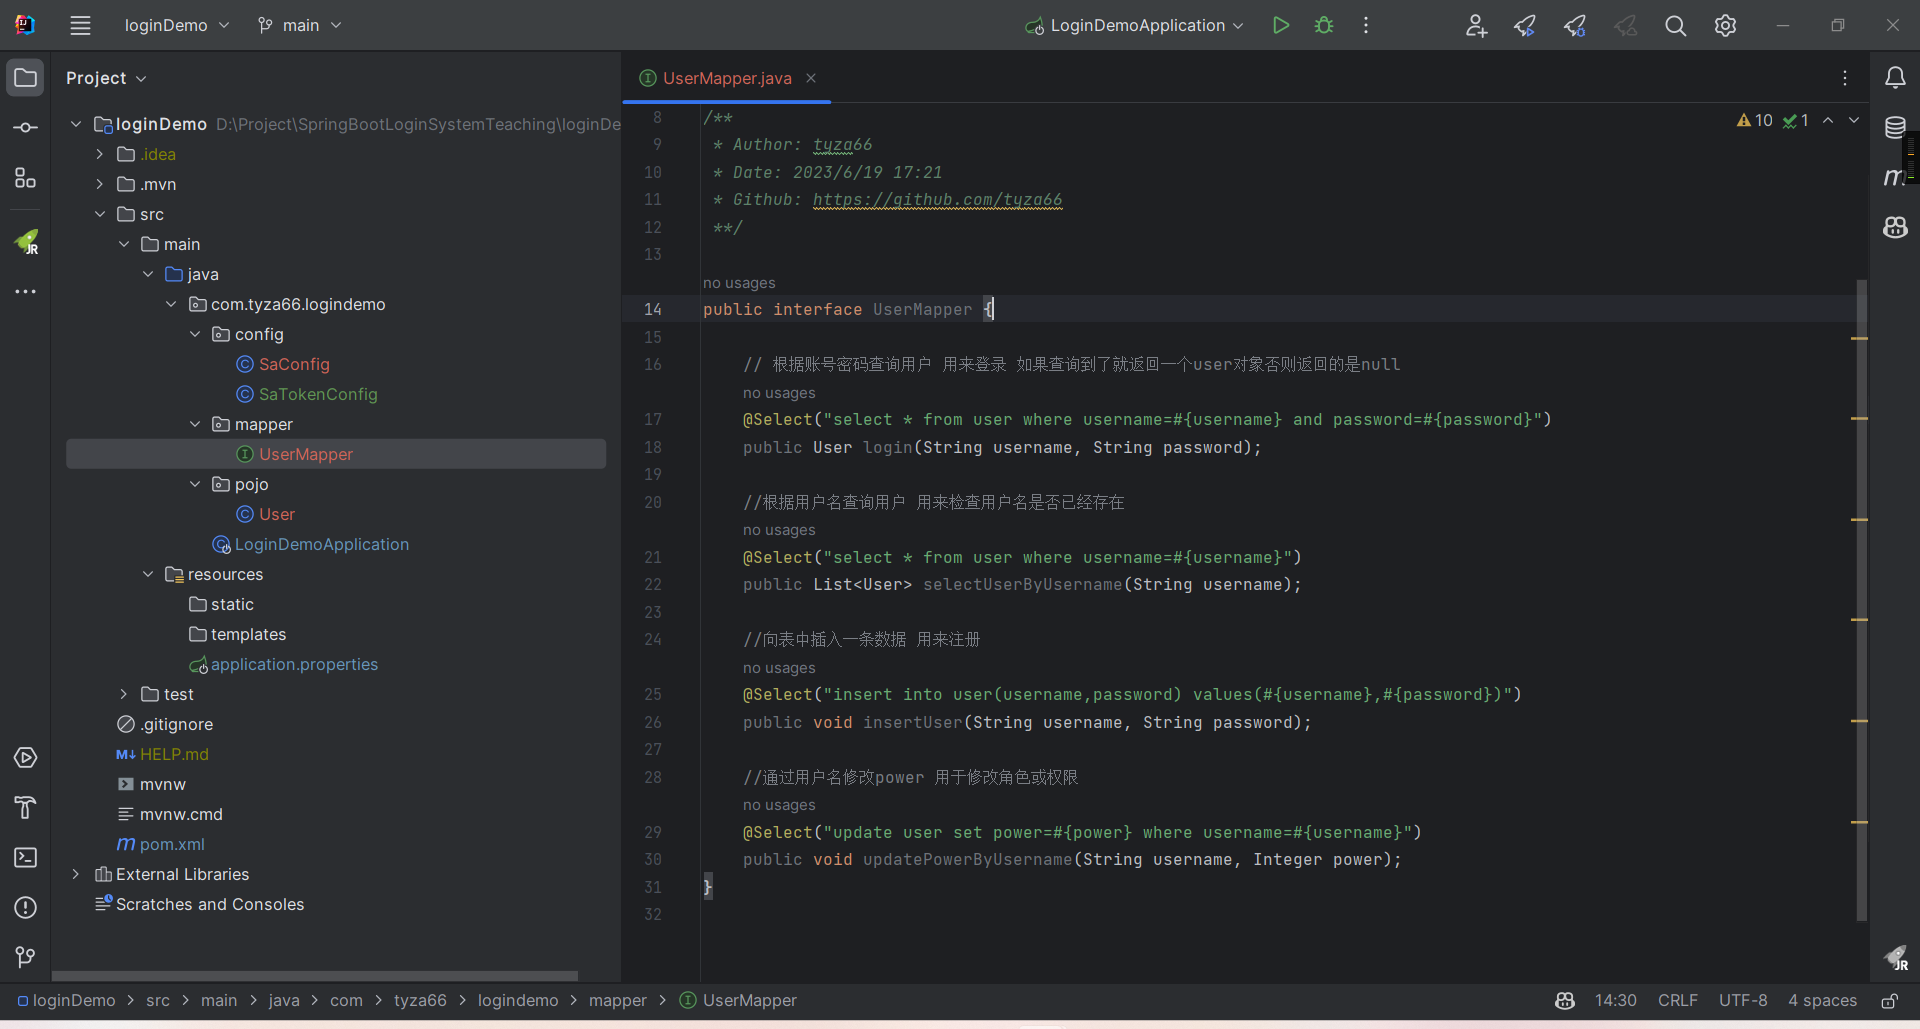
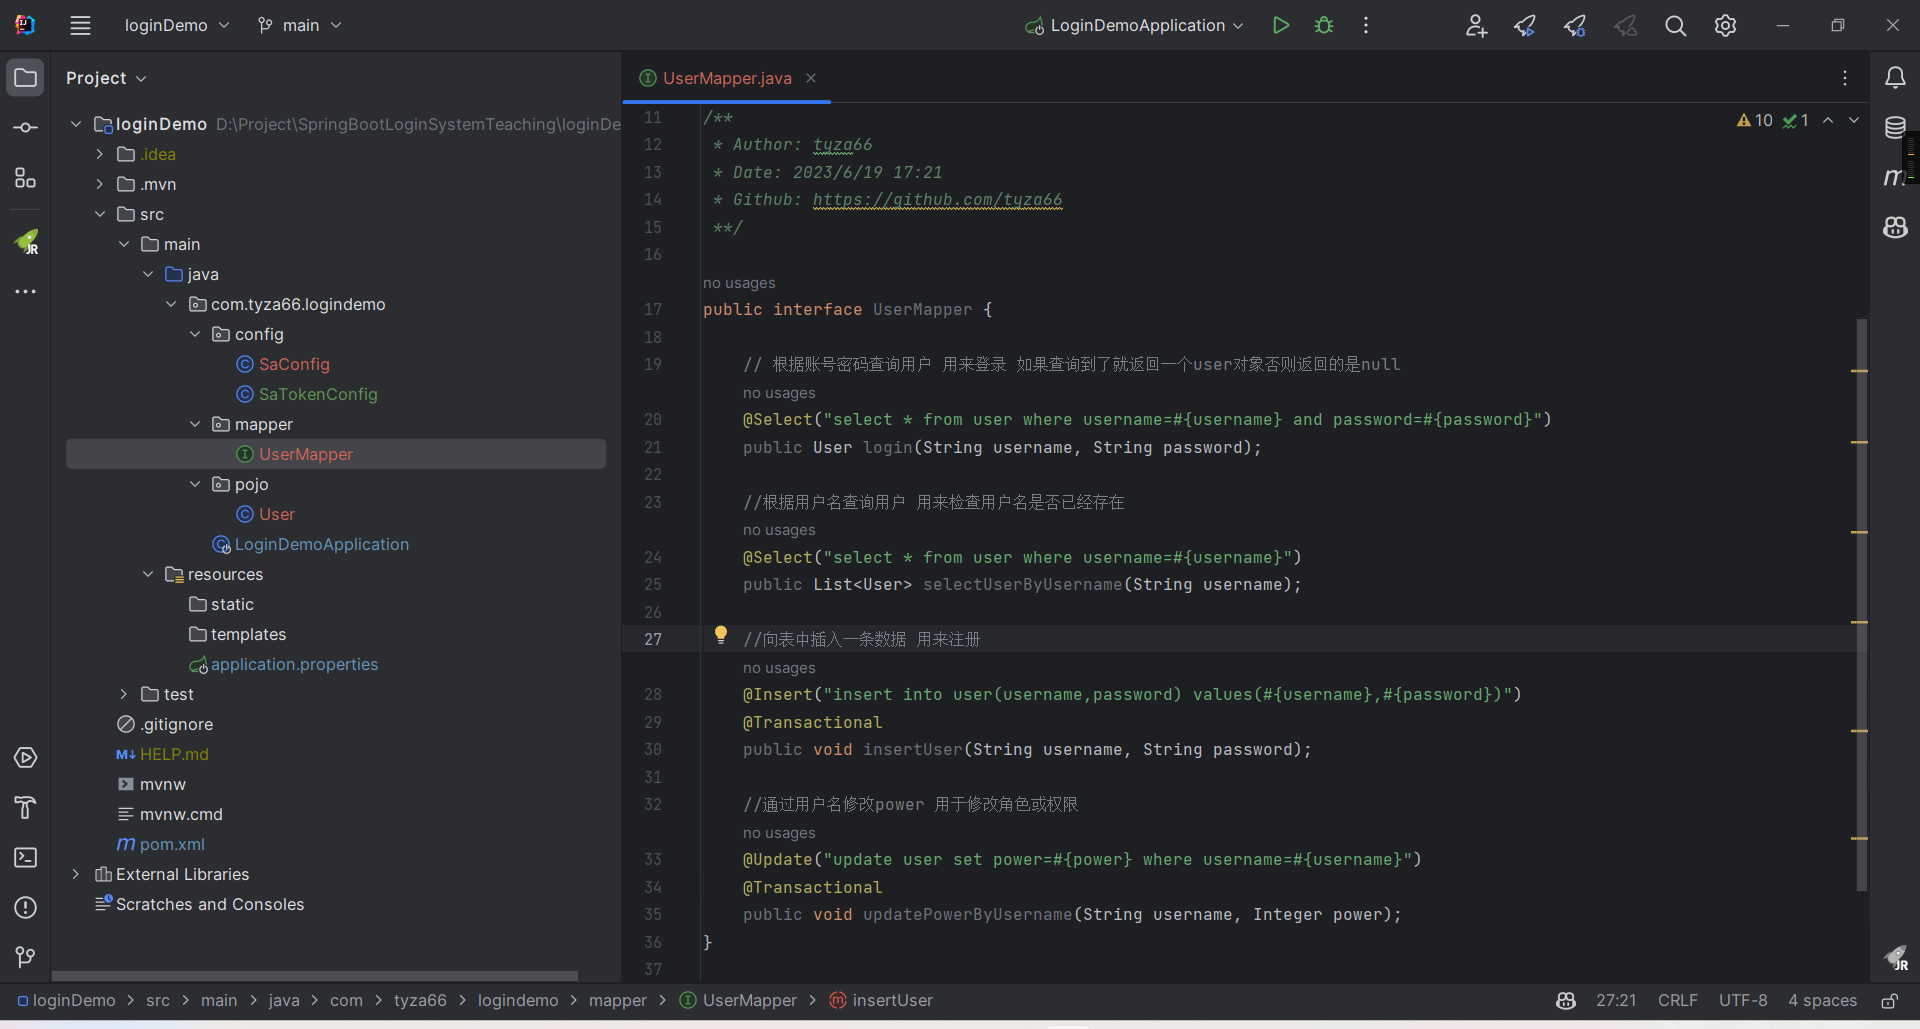
换个图

diff --git a/loginDemo/src/main/java/com/tyza66/logindemo/mapper/UserMapper.java b/loginDemo/src/main/java/com/tyza66/logindemo/mapper/UserMapper.java
@@ -1,7 +1,10 @@
 package com.tyza66.logindemo.mapper;
 
 import com.tyza66.logindemo.pojo.User;
+import org.apache.ibatis.annotations.Insert;
 import org.apache.ibatis.annotations.Select;
+import org.apache.ibatis.annotations.Update;
+import org.springframework.transaction.annotation.Transactional;
 
 import java.util.List;
 
@@ -22,10 +25,12 @@ public interface UserMapper {
     public List<User> selectUserByUsername(String username);
 
     //向表中插入一条数据 用来注册
-    @Select("insert into user(username,password) values(#{username},#{password})")
+    @Insert("insert into user(username,password) values(#{username},#{password})")
+    @Transactional
     public void insertUser(String username, String password);
 
     //通过用户名修改power 用于修改角色或权限
-    @Select("update user set power=#{power} where username=#{username}")
+    @Update("update user set power=#{power} where username=#{username}")
+    @Transactional
     public void updatePowerByUsername(String username, Integer power);
 }
